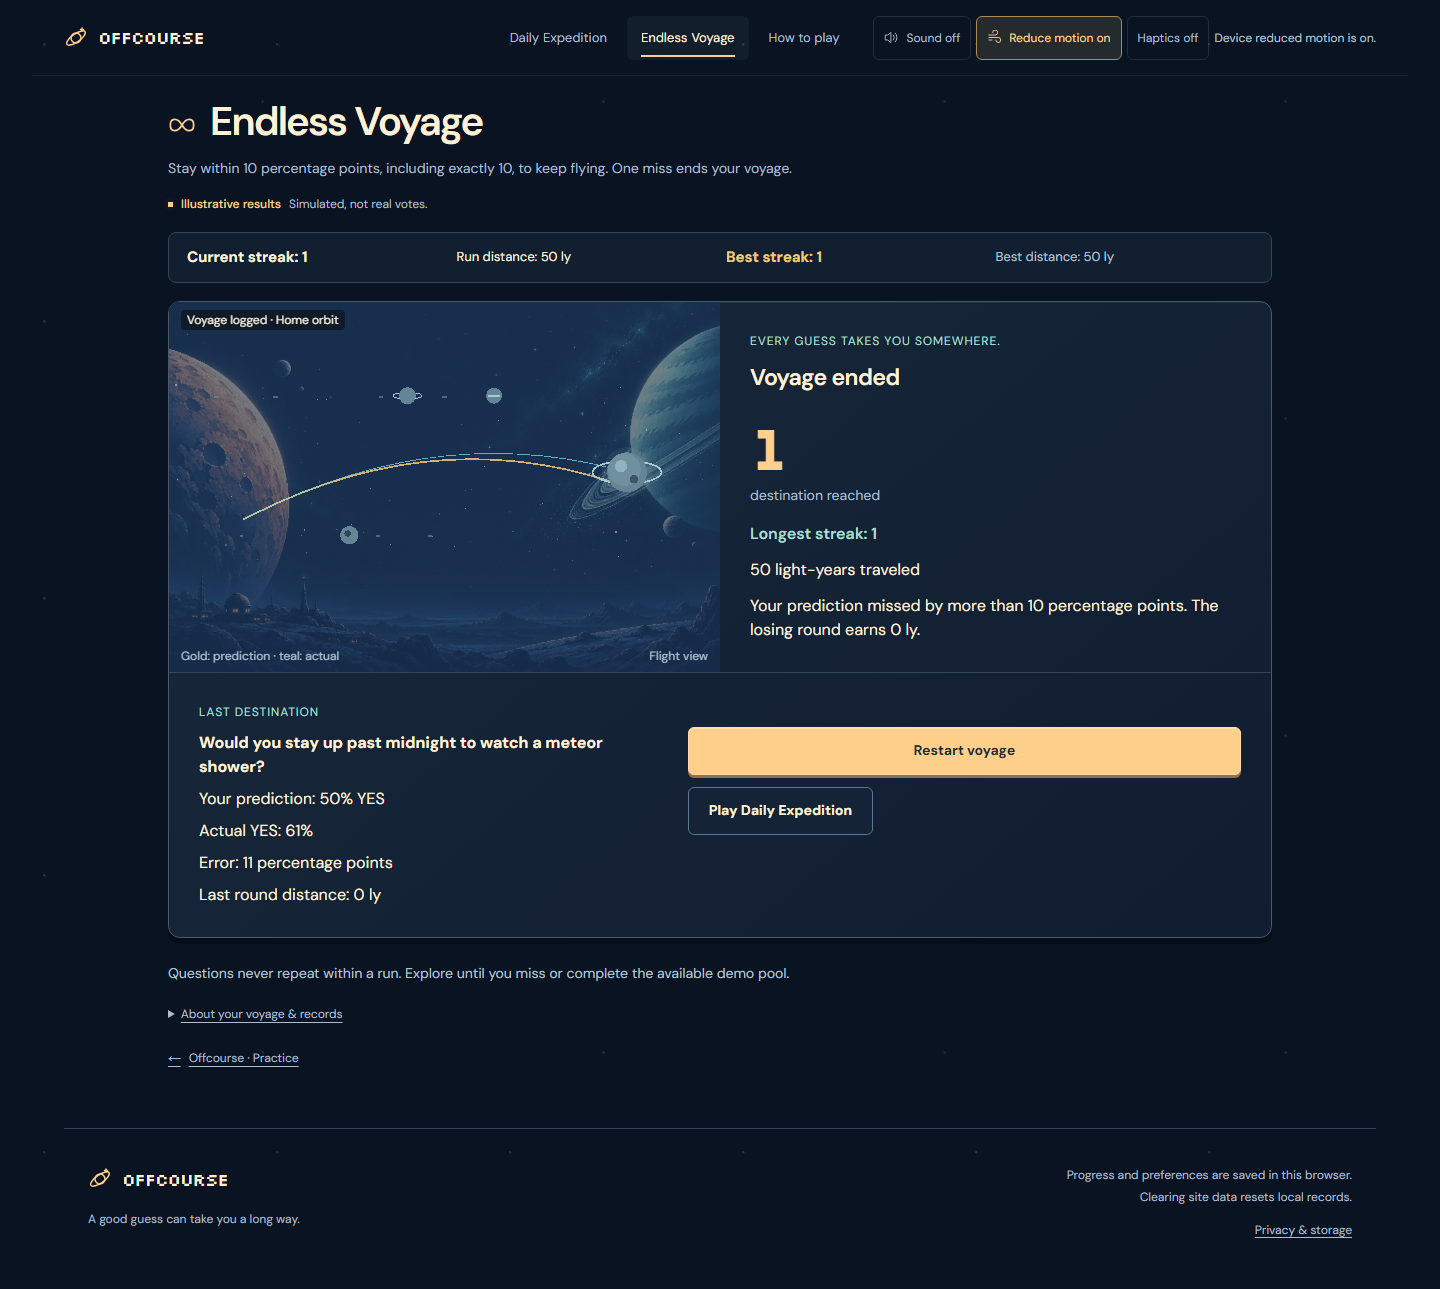
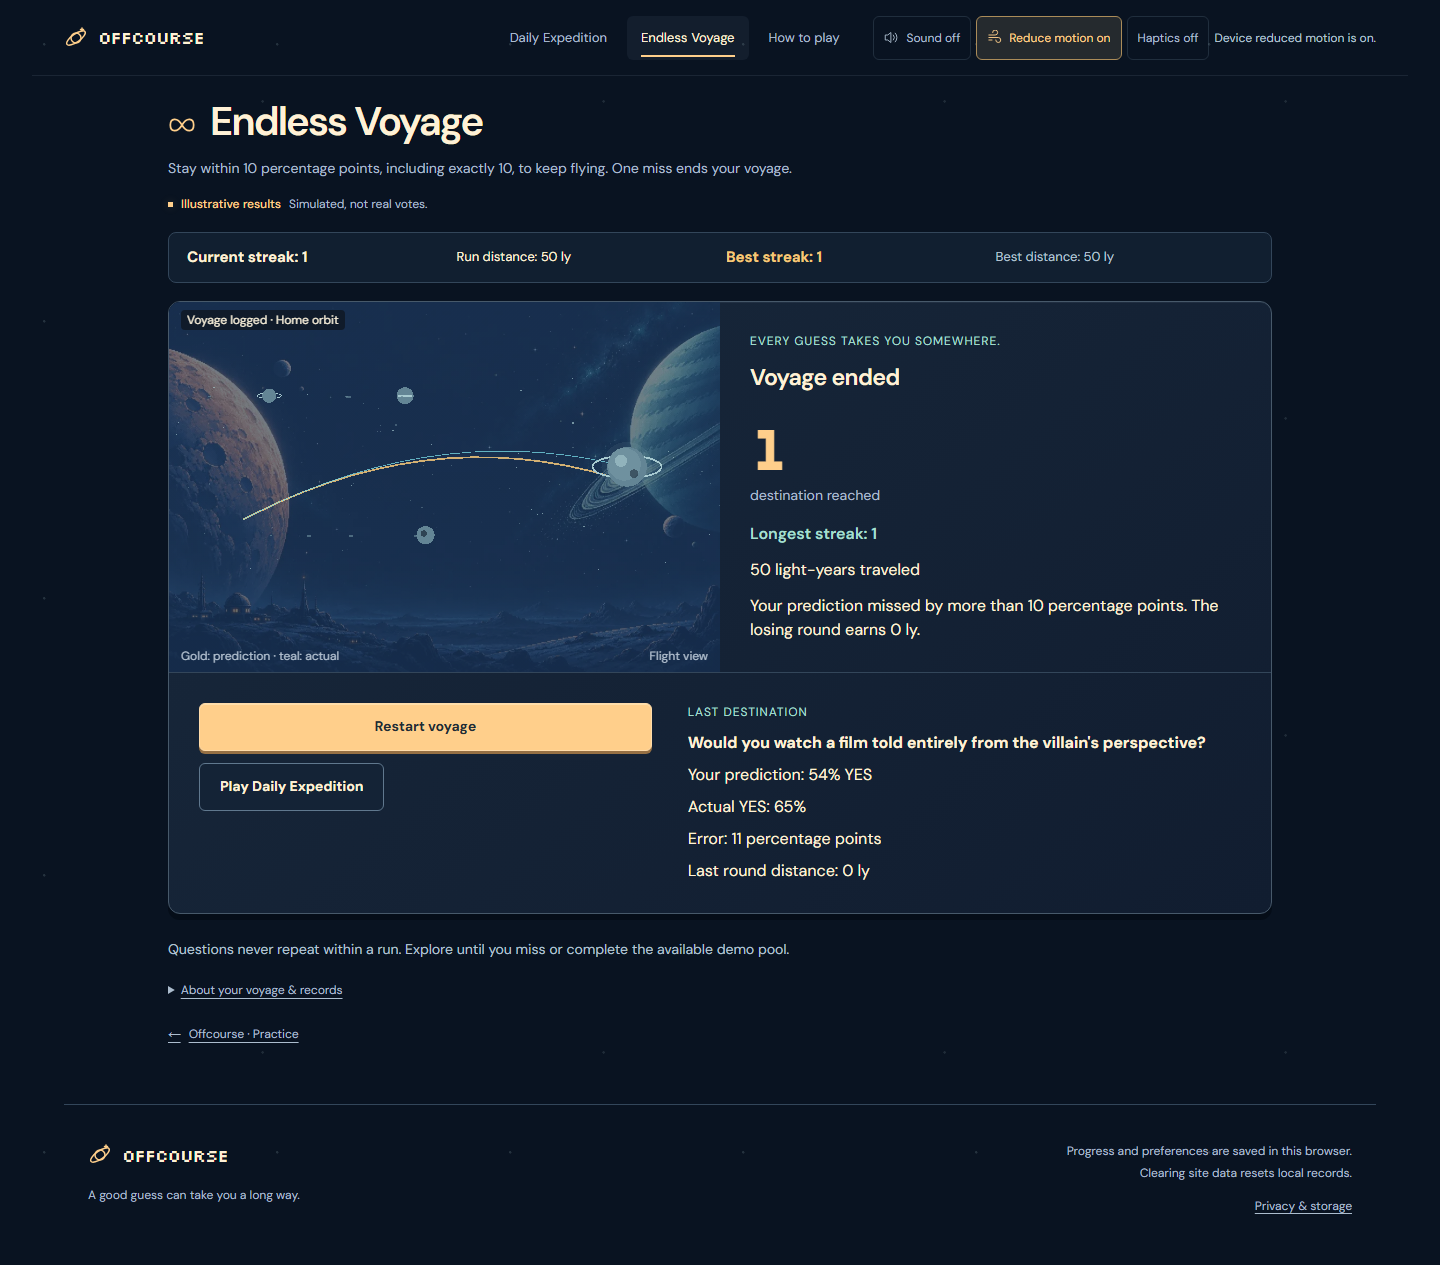
T18: finalize mobile replay and visual review evidence
Move Endless restart controls above the detailed flight log, pin layout-test dates, and retain the independent visual assessment. Verify replay on desktop and phone plus four deterministic viewport cases.

diff --git a/src/app/endless/endless.tsx b/src/app/endless/endless.tsx
@@ -160,6 +160,22 @@ function EndlessGame({ initial, repository, storage }: Loaded) {
             </div>
           </div>
           <div className="completion-details">
+            <div className="completion-actions">
+              <button
+                className="primary-button w-full"
+                onClick={(event) => {
+                  if (event.detail <= 1) restart();
+                }}
+              >
+                Restart voyage
+              </button>
+              <Link
+                href="/daily"
+                className="secondary-button mt-3 flex items-center justify-center"
+              >
+                Play Daily Expedition
+              </Link>
+            </div>
             {run.round.phase === "resolved" ? (
               <div className="completion-log space-y-2">
                 <p className="eyebrow">Last destination</p>
@@ -176,22 +192,6 @@ function EndlessGame({ initial, repository, storage }: Loaded) {
                 <p>Last round distance: {run.round.result.score.distance} ly</p>
               </div>
             ) : null}
-            <div className="completion-actions">
-              <button
-                className="primary-button mt-6 w-full"
-                onClick={(event) => {
-                  if (event.detail <= 1) restart();
-                }}
-              >
-                Restart voyage
-              </button>
-              <Link
-                href="/daily"
-                className="secondary-button mt-3 flex items-center justify-center"
-              >
-                Play Daily Expedition
-              </Link>
-            </div>
           </div>
         </section>
       ) : (

diff --git a/tests/e2e/design.spec.ts b/tests/e2e/design.spec.ts
@@ -4,6 +4,7 @@ import AxeBuilder from "@axe-core/playwright";
 test("a narrow phone keeps aim, world, and launch together", async ({
   page,
 }) => {
+  await page.clock.install({ time: new Date("2026-11-01T12:00:00Z") });
   await page.setViewportSize({ width: 360, height: 800 });
   await page.goto("/daily");
   await page.getByRole("radio", { name: "YES", exact: true }).check();
@@ -34,6 +35,7 @@ test("turning reduced motion on stops the title-screen rocket", async ({
 test("mission controls and flight instruments fit the opening view", async ({
   page,
 }) => {
+  await page.clock.install({ time: new Date("2026-11-01T12:00:00Z") });
   await page.goto("/");
   const daily = page.getByRole("link", { name: /Launch Daily Expedition/ });
   const endless = page.getByRole("link", { name: /Launch Endless Voyage/ });

diff --git a/docs/evidence/polish/visual-review.md b/docs/evidence/polish/visual-review.md
@@ -1,0 +1,32 @@
+# Independent visual review
+
+A fresh critic reviewed only screenshots and browser evidence, without source,
+the design brief, earlier scores or a target score. This is an estimate, not an
+Awwwards result or a claim of 10/10.
+
+> Offcourse turns guessing human preferences into a small cosmic expedition,
+> using a rocket's predicted and actual flight paths to make intuition visible.
+
+| Criterion  | Score | Evidence                                                                                                             |
+| ---------- | ----: | -------------------------------------------------------------------------------------------------------------------- |
+| Design     |   8.0 | Poster-like title composition, warm/cool planets, pixel type, coherent cockpit and phone layout                      |
+| Usability  |   7.5 | Clear choices, numbered steps, prediction guidance, visible focus; completion actions could sit closer to the result |
+| Creativity |   7.5 | Prediction and actual trajectories give the theme a functional role; controls remain familiar                        |
+| Content    |   7.5 | Specific questions, complete numerical feedback and honest simulation labeling                                       |
+
+Weighted overall: **7.70/10**. Developer scores: Semantics/SEO 8, Animations/
+Transitions 7, Accessibility 8, WPO 7, Responsive 7.5, Markup/Meta-data 8.
+
+Evidence: the PNGs in this directory; `final-browser-report.json`; `audit.txt`;
+and the local `.shots/verified/` keyboard, reduced-motion and hover captures.
+
+The final response to review moves Endless restart actions before the detailed
+flight log. Serving the hero as an unoptimized WebP removed the two responsive
+width requests but regressed measured mobile LCP from 1.54 to 2.62 seconds, so
+that experiment was reverted. The optimized image remains. The action-order
+follow-up is verified separately; the independent score is retained unchanged.
+
+Further design opportunities identified by the critic are annotated prediction/
+actual endpoints and a more distinctive continuous transition between routes.
+Neither was established as a functional defect. Existing native navigation,
+short route arrivals, and game-flight choreography remain.

diff --git a/docs/evidence/polish/QA.md b/docs/evidence/polish/QA.md
@@ -85,6 +85,12 @@ Screenshots: [desktop home](home-desktop.png), [phone home](home-mobile.png),
 [phone completion](daily-complete-mobile.png), and
 [Endless result](endless-result-desktop.png).
 
+The fresh final independent [visual review](visual-review.md) estimates **7.70/10
+overall and 8.0/10 for Design**. It is not presented as a 10/10 result. Its final
+action-order finding was addressed. The duplicate-image experiment increased
+LCP, so the faster optimized image remains. Viewport tests use a fixed UTC date so the question text
+does not change between test runs; all four cases pass.
+
 Local development: `npm run dev`. Production build: `npm run build`.
 The authorized main-branch push automatically deploys the illustrative demo to
 <https://offcourse-five.vercel.app>.
